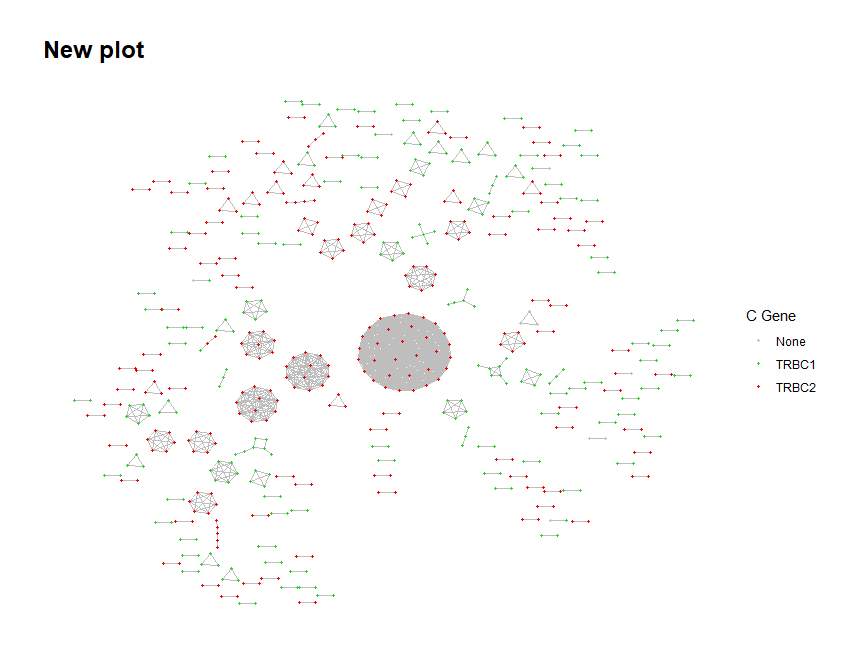
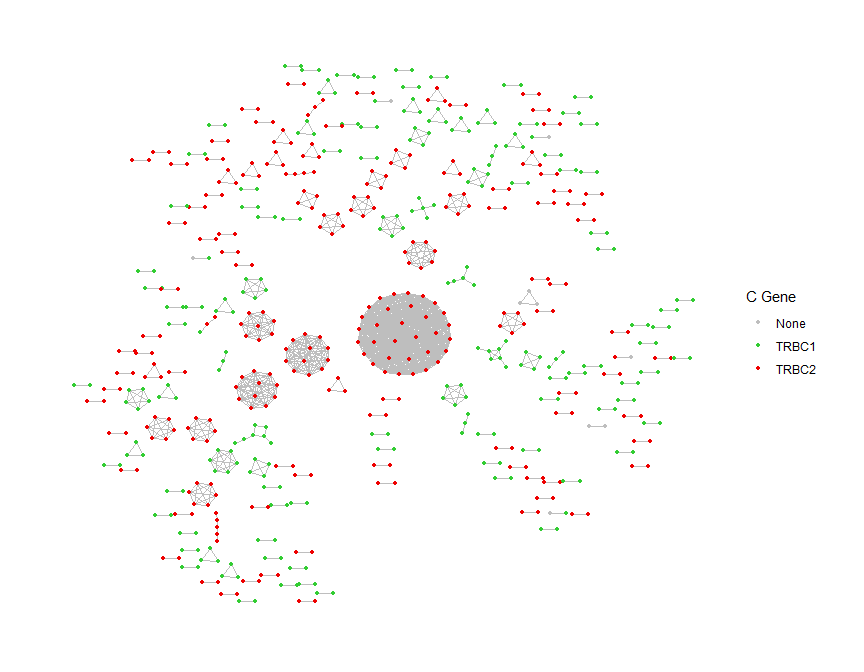
small adjustment to one of the example plots

diff --git a/README.md b/README.md
@@ -833,8 +833,7 @@ variable, and manually specifying a color palette using the
 plotNetworkGraph(network = output$igraph,
                  color_nodes_by = output$node_data$c_gene,
                  color_legend_title = "C Gene",
-                 title = "New plot",
-                 size_nodes_by = 0.8) +
+                 size_nodes_by = 1) +
   scale_color_manual(values = c("grey", "limegreen", "red2"))
 ```
 
